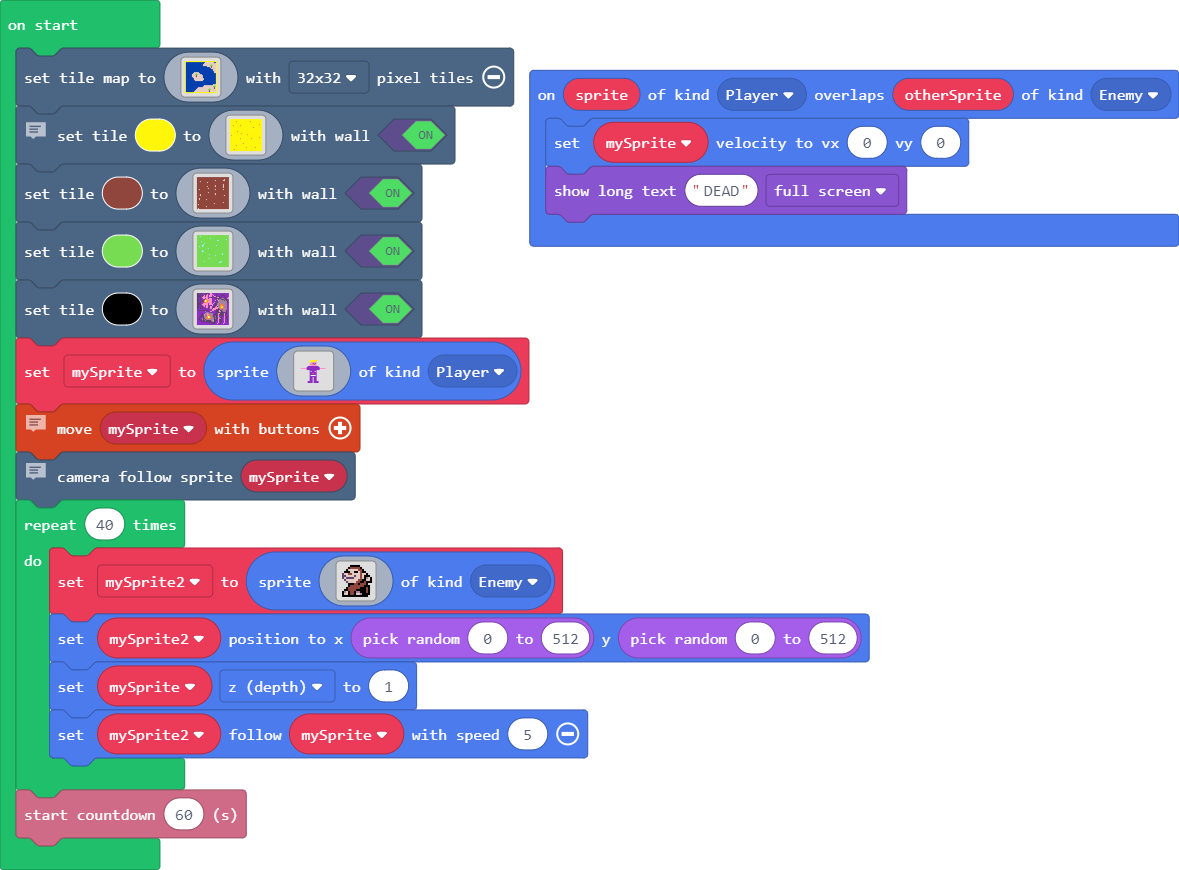
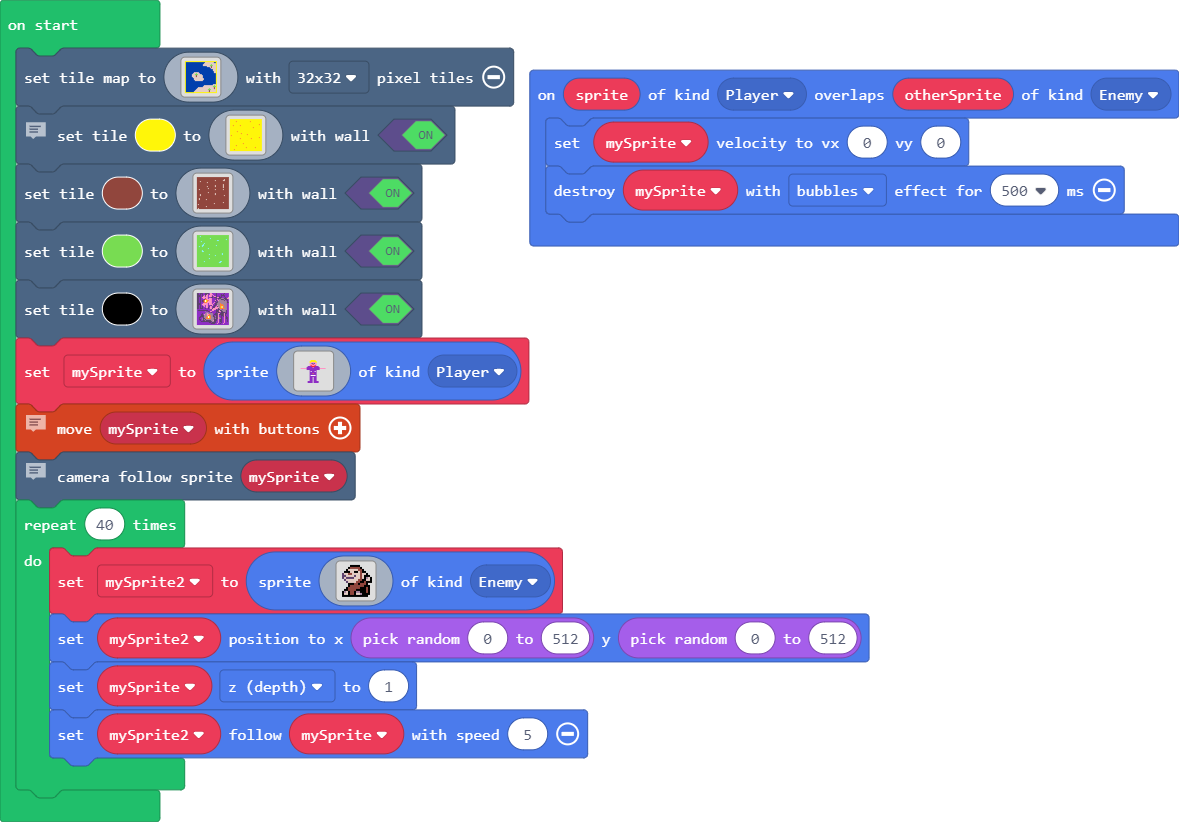
Update pxt.json, main.blocks, main.ts

Changed region(s): [[0.0, 0.0, 0.7634, 0.9732], [0.4275, 0.0608, 1.0, 0.3041]]

diff --git a/main.ts b/main.ts
@@ -1,6 +1,6 @@
 sprites.onOverlap(SpriteKind.Player, SpriteKind.Enemy, function (sprite, otherSprite) {
     mySprite.setVelocity(0, 0)
-    game.showLongText("DEAD", DialogLayout.Full)
+    mySprite.destroy(effects.bubbles, 500)
 })
 let mySprite2: Sprite = null
 let mySprite: Sprite = null
@@ -182,14 +182,14 @@ mySprite = sprites.create(img`
 . . . . . . . . . . . . . . . . . . . . . . . . . . . . . . . . 
 . . . . . . . . . . . . . . . . . . . . . . . . . . . . . . . . 
 . . . . . . . . . . . . . . . . . . . . . . . . . . . . . . . . 
-. . . . . . . . . . . . . 5 5 5 5 5 5 5 . . . . . . . . . . . . 
-. . . . . . . . . . . . 5 5 5 5 5 5 3 . . . . . . . . . . . . . 
-. . . . . . . . . . . . 5 3 3 3 3 3 3 . . . . . . . . . . . . . 
-. . . . . . . . . . . . 3 3 3 8 3 8 3 . . . . . . . . . . . . . 
-. . . . . . . . . . . . 3 3 3 3 2 3 3 . . . . . . . . . . . . . 
-. . . . . . . . . . . . 3 3 3 3 3 3 3 . . . . . . . . . . . . . 
-. . . . . . . . . . a a a a a a a a a a a . . . . . . . . . . . 
-. . . . . . . . . a a a a a a a a a a a a a . . . . . . . . . . 
+. . . . . . . . . . . . . 5 5 5 5 5 . . . . . . . . . . . . . . 
+. . . . . . . . . . . . 5 5 5 5 5 5 5 . . . . . . . . . . . . . 
+. . . . . . . . . . . . 5 3 3 3 3 3 5 . . . . . . . . . . . . . 
+. . . . . . . . . . . . 3 3 8 3 8 3 3 . . . . . . . . . . . . . 
+. . . . . . . . . . . . 3 3 3 2 3 3 3 . . . . . . . . . . . . . 
+. . . . . . . . . . . . 3 2 3 3 3 2 3 . . . . . . . . . . . . . 
+. . . . . . . . . . a a a a 2 2 2 a a a a . . . . . . . . . . . 
+. . . . . . . . . a a a a a a 3 a a a a a a . . . . . . . . . . 
 . . . 3 3 3 3 3 3 a a a a a a a a a a a a a 3 3 3 3 3 3 . . . . 
 . . . . . . . . . a a a a a a a a a a a a a . . . . . . . . . . 
 . . . . . . . . . . . . a a a a a a a . . . . . . . . . . . . . 
@@ -237,4 +237,3 @@ for (let index = 0; index < 40; index++) {
     mySprite.z = 1
     mySprite2.follow(mySprite, 5)
 }
-info.startCountdown(60)
